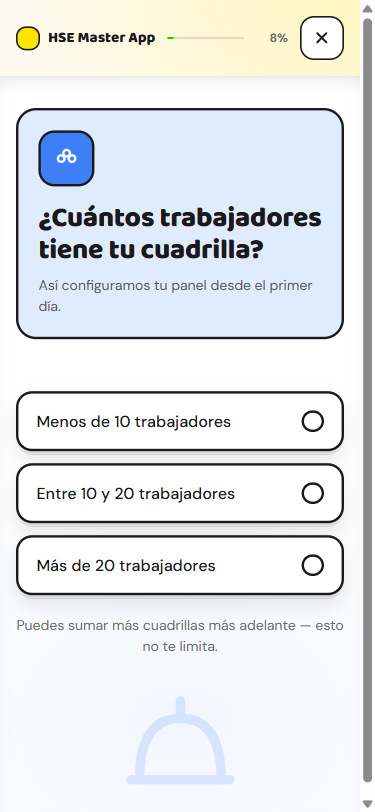
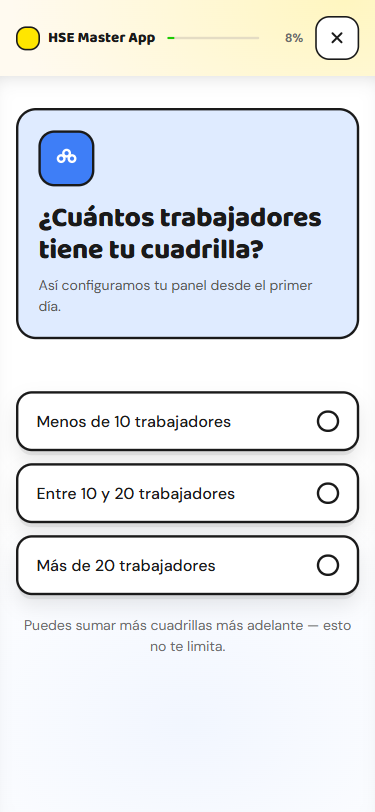
Sesion 4: corrige los defectos de la ronda 13 en onboarding
Se quita la marca de agua decorativa del paso 1 (quedaba cortada por
el borde del viewport y era inconsistente con los pasos 2/4) en vez
de seguir ajustando su tamano tras 3 rondas de ida y vuelta. Cada
respuesta se guarda en sessionStorage apenas se elige, no solo al
llegar al loading, para que un refresh o el boton atras nativo no
pierda las respuestas. El icono del reconocimiento cambia segun el
reto elegido (casco/QR/signo de pregunta), igual que ya cambia el
texto. El grupo de chips se bloquea con pointer-events:none por
320ms tras elegir uno, para evitar una transicion doble por doble
tap. El aria-label del logo cambia a "Salir del recorrido" fuera del
paso 1, para coincidir con lo que realmente hace.

diff --git a/onboarding.html b/onboarding.html
@@ -84,9 +84,6 @@
 
   .onb-chips { margin-top: 28px; display: flex; flex-direction: column; gap: 12px; }
   .onb-nota-cuadrilla { margin-top: 20px; font-size: 14px; color: var(--ink-2); text-align: center; }
-  .onb-marca-agua { display: block; margin: 20px auto 0; width: 140px; height: 140px; color: var(--azul);
-                     opacity: 0.16; }
-  .onb-marca-agua svg { width: 100%; height: 100%; }
   .onb-chip {
     width: 100%; min-height: 60px; border-radius: 16px; border: 3px solid var(--ink); background: var(--surface);
     display: flex; align-items: center; justify-content: space-between; gap: 12px; padding: 14px 18px;
@@ -229,7 +226,6 @@
       </button>
     </div>
     <p class="onb-nota-cuadrilla">Puedes sumar más cuadrillas más adelante — esto no te limita.</p>
-    <span class="onb-marca-agua" aria-hidden="true"><svg viewBox="0 0 24 24" fill="none" stroke="currentColor" stroke-width="1.6" stroke-linecap="round" stroke-linejoin="round"><path d="M3.5 17.5h17"/><path d="M5 17.5Q5 7 12 7Q19 7 19 17.5"/><path d="M12 7V4"/></svg></span>
   </section>
 
   <!-- PASO 2 -->
@@ -337,6 +333,9 @@
   const pctEl = document.getElementById('onbPct');
   const atrasBtn = document.getElementById('onbAtras');
   const sinMovimiento = window.matchMedia('(prefers-reduced-motion: reduce)').matches;
+  function guardarProgreso() {
+    try { sessionStorage.setItem('hseOnboarding', JSON.stringify(respuestas)); } catch {}
+  }
 
   const progressBar = document.querySelector('.onb-progress');
   const srPaso = document.getElementById('onbSrPaso');
@@ -351,6 +350,7 @@
   }
   function actualizarHeader(paso) {
     document.getElementById('onbHeaderMedio').classList.toggle('oculto', paso === 5);
+    document.getElementById('onbLogo').setAttribute('aria-label', paso > 1 ? 'Salir del recorrido de bienvenida' : 'Ir al inicio');
   }
 
   let transicionando = false;
@@ -423,6 +423,9 @@
         siguiente.focus();
       });
       chip.addEventListener('click', () => {
+        if (grupo.style.pointerEvents === 'none') return;
+        grupo.style.pointerEvents = 'none';
+        setTimeout(() => { grupo.style.pointerEvents = ''; }, 320);
         chipsDelGrupo.forEach((c) => { c.classList.remove('seleccionado'); c.setAttribute('aria-checked', 'false'); c.setAttribute('tabindex', '-1'); });
         chip.classList.add('seleccionado');
         chip.setAttribute('aria-checked', 'true');
@@ -436,6 +439,7 @@
           respuestas.retoTexto = null;
           respuestas.retoLabel = chip.querySelector('span').textContent;
         }
+        guardarProgreso();
 
         setTimeout(() => {
           if (nombre === 'cuadrilla') irAPaso(2, 'adelante');
@@ -469,38 +473,49 @@
     respuestas.reto = 'otra';
     respuestas.retoTexto = texto;
     respuestas.retoLabel = respuestas.retoTexto;
+    guardarProgreso();
     irAPaso(3, 'adelante');
   });
 
   // Reconocimiento dinámico según el reto elegido
+  const ICONO_CASCO = '<path d="M3.5 17.5h17"/><path d="M5 17.5Q5 7 12 7Q19 7 19 17.5"/><path d="M12 7V4"/>';
+  const ICONO_QR = '<rect x="3" y="3" width="7" height="7" rx="1"/><rect x="14" y="3" width="7" height="7" rx="1"/><rect x="3" y="14" width="7" height="7" rx="1"/><path d="M14 14h3v3h-3zM19 14v3M14 19h3M17 17h4v4h-4z"/>';
+  const ICONO_PREGUNTA = '<circle cx="12" cy="12" r="10"/><path d="M9.5 9a2.5 2.5 0 0 1 5 0c0 1.5-2.5 2-2.5 3.5"/><path d="M12 17h.01"/>';
   const RECONOCIMIENTOS = {
     firman: {
       titulo: 'No es que no les importe',
-      cuerpo: 'Una firma en papel nunca prueba que entendieron — el <b>Pase de los 3 Minutos</b> reemplaza la firma por una prueba real, todos los días.'
+      cuerpo: 'Una firma en papel nunca prueba que entendieron — el <b>Pase de los 3 Minutos</b> reemplaza la firma por una prueba real, todos los días.',
+      icono: ICONO_CASCO
     },
     certificados: {
       titulo: 'No es tu equipo el que falla',
-      cuerpo: 'Cientos de carpetas de papel no fueron hechas para escalar. El Pase convierte cada certificación en un <b>código QR</b> que se verifica en segundos.'
+      cuerpo: 'Cientos de carpetas de papel no fueron hechas para escalar. El Pase convierte cada certificación en un <b>código QR</b> que se verifica en segundos.',
+      icono: ICONO_QR
     },
     'no-se-quien': {
       titulo: 'Un examen no distingue entender de adivinar',
-      cuerpo: 'El Pase mide si tu gente retuvo la regla de verdad, con retos de 3 minutos que <b>no se pueden adivinar</b>.'
+      cuerpo: 'El Pase mide si tu gente retuvo la regla de verdad, con retos de 3 minutos que <b>no se pueden adivinar</b>.',
+      icono: ICONO_PREGUNTA
     },
     auditoria: {
       titulo: 'Juntar papeles no debería tomarte días',
-      cuerpo: 'Con el Pase, cada trabajador trae su <b>código QR</b> listo — tu evidencia vive en el sistema, no en una carpeta.'
+      cuerpo: 'Con el Pase, cada trabajador trae su <b>código QR</b> listo — tu evidencia vive en el sistema, no en una carpeta.',
+      icono: ICONO_QR
     }
   };
   function prepararReconocimiento() {
     const titulo = document.getElementById('onbRecoTitulo');
     const cuerpo = document.getElementById('onbRecoCuerpo');
+    const iconoSvg = document.querySelector('.onb-reco .ic svg');
     if (respuestas.reto === 'otra' && respuestas.retoTexto) {
       titulo.textContent = 'Gracias por contarnos';
       cuerpo.innerHTML = `Anotamos tu reto: "${respuestas.retoTexto}". El <b>Pase de los 3 Minutos</b> está pensado para convertir la seguridad en un hábito diario, no en papeleo.`;
+      iconoSvg.innerHTML = ICONO_CASCO;
     } else {
       const r = RECONOCIMIENTOS[respuestas.reto] || RECONOCIMIENTOS.firman;
       titulo.textContent = r.titulo;
       cuerpo.innerHTML = r.cuerpo;
+      iconoSvg.innerHTML = r.icono;
     }
   }
   document.getElementById('onbRecoContinuar').addEventListener('click', () => irAPaso(4, 'adelante'));
@@ -527,7 +542,7 @@
 
   // Loading: anillo + líneas con pausas (labor illusion)
   function iniciarCarga() {
-    try { sessionStorage.setItem('hseOnboarding', JSON.stringify(respuestas)); } catch {}
+    guardarProgreso();
     const lineas = document.getElementById('onbLineas').querySelectorAll('.onb-linea');
     const textos = {
       1: `Analizando el tamaño de tu cuadrilla: ${respuestas.cuadrilla || '—'}`,

diff --git a/ESTADO.md b/ESTADO.md
@@ -1,7 +1,7 @@
 # ESTADO — HSE Master App
 Última actualización: 2026-10-17 | Sesión actual: 4
 
-⏸ CHECKPOINT — Sesión 4 (onboarding, paywall), ronda 13 de paywall YA ENTREGADA y YA CORREGIDA; onboarding ronda 13 sigue en segundo plano. Paywall ronda 13: usabilidad 30/40, craft 14/20, copy 19/20 (PASA 3 rondas seguidas). Fixes: el CTA verde ganó un halo/sombra con tinte del mismo verde para separarse del fondo blanco (el revisor midió ~2.17:1 contra el relleno, aunque el borde de 3px ya daba el contraste real del límite del botón); se envolvió el handler del CTA en try/catch con un mensaje visible (`#pwError`) por si algo falla al continuar, en vez de un fallo silencioso; "el Pase" se aclara entre paréntesis ("el reto diario de 3 minutos") en su primera mención en esta pantalla, para quien aterriza directo aquí sin pasar por onboarding; el precio de cada plan baja de 22 a 19px para no competir en peso visual con el titular; las 2 etiquetas tipo "eyebrow" (planes/días) se unifican al mismo gris, antes una era azul sin razón visible. Próximo paso: cuando llegue el veredicto de onboarding ronda 13, corregirlo, commitear y relanzar la ronda 14.
+⏸ CHECKPOINT — Sesión 4 (onboarding, paywall), ronda 13 de ambas YA ENTREGADA y YA CORREGIDA (sin relanzar ronda 14 todavía). Paywall ronda 13: usabilidad 30/40, craft 14/20, copy 19/20 (PASA 3 rondas seguidas) — fixes: halo/sombra con tinte verde en el CTA; handler del CTA envuelto en try/catch con mensaje visible (`#pwError`) si algo falla; "el Pase" se aclara entre paréntesis en su primera mención; precio de cada plan baja de 22 a 19px; las 2 etiquetas "eyebrow" se unifican al mismo gris. Onboarding ronda 13: usabilidad 30/40, craft 16/20 (sostiene el umbral 2 rondas seguidas). Fixes de onboarding: se QUITÓ la marca de agua del paso 1 (en vez de agrandarla de nuevo) — quedaba cortada por el borde del viewport a 375×812 y era inconsistente con los pasos 2/4, que nunca la tuvieron; se prefiere aceptar el espacio residual como estado estable en vez de seguir oscilando entre "muy chica/invisible" y "muy grande/cortada" rondas seguidas; cada respuesta se guarda en sessionStorage apenas se elige (antes solo se guardaba al llegar al loading) — un refresh o el botón atrás nativo del navegador ya no pierde las respuestas; el ícono del reconocimiento ahora cambia según el reto elegido (casco/QR/signo de pregunta), igual que ya cambia el texto; se bloquea el grupo de chips con `pointer-events:none` por 320ms tras elegir uno, para que un segundo tap no agende una transición doble; el aria-label del logo cambia a "Salir del recorrido de bienvenida" cuando ya no está en el paso 1 (coincide con lo que realmente hace: confirma salida, no va al inicio).
 veredicto:landing — 24 rondas de revisión independiente corregidas con mejora real y medible (usabilidad 27→30, craft 12-14 oscilando). Sigue NO LISTA. Las correcciones restantes que el revisor pide (bajar de 4 a 2 acentos de color en toda la pantalla, variar el gesto de botón, rotar el amarillo más allá de lo que preserva "gold") chocan con decisiones ya aprobadas por el usuario (FICHA-ARTE.md, cosa juzgada) — documentadas abajo como razonadas, no pendientes sueltas. El único camino para subir más el puntaje de craft/identidad es que el USUARIO decida si quiere tocar esas decisiones aprobadas, no que el agente seguro siga iterando solo. defecto "cero estados de error en el funnel" sigue DELIBERADAMENTE sin resolver: no hay backend/checkout real todavía (Sesión 6, cualquier error sería fabricado). El footer legal ya NO dice "(pendiente)" con jerga interna (corregido en ronda 19 → "(próximamente)", lenguaje de cliente) pero las 3 páginas legales siguen sin redactarse de verdad — eso se resuelve en la sesión aparte de este sistema (47-LEGAL-FISCAL-Y-PRIVACIDAD.md). La promesa de "reembolso de 7 días" se QUITÓ de la landing (ronda 23) hasta que exista FICHA-MERCADO.md con el plazo real verificado contra Hotmart — ninguno bloquea esta pantalla puntual.
 
 ## Qué es esta app (3 líneas máximo)
@@ -104,7 +104,8 @@ Plataforma móvil B2B de microaprendizaje gamificado (estilo Duolingo) para capa
   4. [Carrusel] El recálculo de flechas/puntos en cada evento de scroll no usa `requestAnimationFrame` — podría sentirse tosco en celulares de gama media bajo prueba real (nunca verificado en un dispositivo físico, solo en navegador de escritorio emulando 375px).
   5. [Método] El screenshot de evidencia es de página completa muy reescalada (360×8711) y no permite verificar encaje óptico fino — si se retoma el pulido, conviene agregar recortes a resolución nativa de las secciones clave.
   Las demás tensiones de fondo (paleta multicolor, gesto de botón, falta de testimonios, mailto sin backend, footer legal) siguen siendo decisiones razonadas y documentadas por separado abajo, no parte de esta lista.
-- veredicto:onboarding — 12 rondas de revisión independiente (30→31→32→28→28→33→29→31→28→31→37→32/40 usabilidad; craft 10→12→12→10→13→14→16→15→14→14→13→16/20). Ambos ejes cruzaron el umbral al menos una vez (usabilidad en la 11, craft en la 12) pero nunca juntos en la misma ronda todavía — se necesita una ronda donde ambos pasen a la vez para declarar lista. docs/revisiones/onboarding-veredicto.md en disco es el de la ronda 12. No se declara lista hasta leer el veredicto de la ronda 13.
+- veredicto:onboarding — 13 rondas de revisión independiente (30→31→32→28→28→33→29→31→28→31→37→32→30/40 usabilidad; craft 10→12→12→10→13→14→16→15→14→14→13→16→16/20). Craft sostiene el umbral 2 rondas; usabilidad sigue siendo el eje que falta, nunca coincidió con craft en la misma ronda todavía. docs/revisiones/onboarding-veredicto.md en disco es el de la ronda 13. No se declara lista hasta leer el veredicto de la ronda 14.
+- marca-agua-onboarding-removida — tras 3 rondas oscilando (8%→16%→cortada/inconsistente), se decidió QUITAR la marca de agua decorativa del paso 1 en vez de seguir ajustando su tamaño/opacidad. Decisión razonada: es un elemento puramente decorativo (no aporta información), y 3 rondas de ida y vuelta sobre su tamaño exacto es la señal de que no vale la pena seguir iterando ese detalle — el espacio residual bajo los 3 chips queda como un costo aceptado del layout de pregunta corta, no como un defecto a perseguir más.
 - veredicto:paywall — 13 rondas de revisión independiente (31→35→35→32→31→31→29→34→30→33→32→32→30/40 usabilidad; craft 14→12→15→14→13→14→15→18→14→14→15→17→14/20; copy 17→16→17→16→17→17→16→18→17→18→18→19→19/20). Copy sostiene el umbral 3 rondas seguidas; craft osciló debajo otra vez; usabilidad sigue siendo el eje que nunca cruzó el umbral en esta pantalla. docs/revisiones/paywall-veredicto.md en disco es el de la ronda 13. No se declara lista hasta leer el veredicto de la ronda 14.
 - agente-crasheo-pero-escribio-veredicto — la ronda 11 de onboarding reportó "failed" por límite de uso de la cuenta, pero el archivo de veredicto en disco está completo y bien formado (no cortado a mitad). Antes de asumir que hay que retomar un agente con SendMessage, conviene leer el archivo de veredicto: si ya quedó completo, ese es el resultado válido de la ronda y no hace falta relanzar ni retomar nada.
 - metodologia-sessionStorage-entre-pantallas — la ronda 10 de onboarding detectó que una captura "oficial" de evidencia (paso 1) en realidad mostraba el paso 4, porque sessionStorage con respuestas de una prueba anterior (usada para ver el total de la cuadrilla en paywall) hacía que el auto-resume de onboarding.html saltara de más al recargar la página para el screenshot. Desde ahora: SIEMPRE `sessionStorage.clear()` antes de navegar a onboarding.html para capturar su paso 1, ya que esta app (a diferencia de landing/paywall) cambia de pantalla según lo que haya guardado.

diff --git a/docs/revisiones/onboarding-veredicto.md b/docs/revisiones/onboarding-veredicto.md
@@ -1,14 +1,15 @@
 # VEREDICTO revisor-visual — onboarding
 Fecha: 2026-10-17 00:00
 Screenshot: docs/revisiones/onboarding-375.png
-Usabilidad: 32/40
+Usabilidad: 30/40
 Craft: 16/20
 Copy (si vende): N-A
 Fidelidad (si hubo referencia): N-A
 Veredicto: NO LISTA
+
 Top defectos:
-1. [Paso 1 y Paso 4, tercio inferior de la pantalla] Debajo de la nota "Puedes sumar más cuadrillas..." queda un bloque de fondo vacío con solo el hardhat al 8% de opacidad (onboarding.html líneas 60-64 `.onb-paso{justify-content:flex-start}` + 86-88 `.onb-marca-agua{opacity:.08}` + marcado en línea 230) — se percibe como espacio muerto, no como aire intencional, porque la marca de agua es casi invisible y no hay ningún otro elemento que lo ancle. Fix: subir la opacidad del hardhat a ~0.12-0.15 o agregar un segundo elemento decorativo (línea/chip contextual) que ocupe ese tercio, o reducir el padding-bottom del `.onb-paso` para que el bloque de opciones quede más cerca del borde inferior.
-2. [Paso 1/2/4, microcopy gris dentro del encabezado de color] El texto `.onb-micro` (línea 82, `color: var(--ink-2)` = #6b6b6b, línea 18) sobre los fondos `.onb-encabezado.azul`/`.rojo` (líneas 72-73, color-mix 16%) mide ~4.37-4.44:1 de contraste — por debajo del mínimo AA 4.5:1 para texto normal de 14px. Fix: oscurecer a ~#565656 o crear un token `--ink-2-on-tint` solo para este microcopy sobre fondos de color.
-3. [Header, barra de progreso — verificado en código, no visible en captura] `.onb-progress`/`.onb-progress-fill`/`.onb-pct` (líneas 52-54) son `div` planos sin `role="progressbar"` ni `aria-valuenow/min/max`, y `irAPaso()` (líneas 351-380) nunca mueve el foco ni anuncia el cambio de paso a un lector de pantalla — el único feedback de "vas en el paso X de 5" es visual. Fix: agregar `role="progressbar" aria-valuenow aria-valuemin="0" aria-valuemax="100"` a `.onb-progress` y un `aria-live="polite"` oculto que anuncie "Paso X de 5" al llamar `irAPaso`.
-4. [Paso 1, jerarquía tipográfica] En una sola pantalla conviven 4 tamaños de fuente distintos: 28/30px (línea 80-81, pregunta), 16px (línea 92, texto de los chips), 14px (línea 82, microcopy) y 13px (línea 85, nota) — por encima del máximo de 3 tamaños por pantalla que exige una jerarquía nítida. Fix: unificar microcopy y nota en el mismo tamaño (13px o 14px, uno solo) para dejar exactamente 3 niveles.
-5. [Chips de selección, círculo de check sin seleccionar] `.onb-chip .check` (línea 100) usa `border: 2px solid var(--ink)`, mientras que FICHA-ARTE.md línea 30 fija "2.5-3px sólido... en TODOS los bloques y botones" como la firma del estilo "comic/juego de mesa" — el círculo de radio queda con un trazo visiblemente más fino que el resto del kit (tarjetas, botones, íconos, todos en 3px). Fix: subir el borde del `.check` a 3px para igualar la firma visual.
+1. [Paso 1, debajo de "Puedes sumar más cuadrillas..."] El ícono decorativo (`.onb-marca-agua`, onboarding.html líneas 87-89 y 232) queda cortado por el borde inferior del viewport a 375x812 (visible en onboarding-375.png) y obliga a hacer scroll para ver un elemento puramente decorativo sin ninguna función; además solo existe en el paso 1 y no en los pasos 2/4, que comparten la misma estructura (encabezado + chips) → rompe el ritmo visual entre las 3 preguntas. Fix: quitar el elemento o reducir su tamaño/margen para que quepa completo sobre el pliegue, y aplicarlo (o no aplicarlo) de forma consistente en los 3 pasos de pregunta.
+2. [Control y libertad — código, sin captura posible] `onboarding.html` no registra ningún handler de `beforeunload` ni `popstate` (búsqueda en todo el `<script>`, líneas 331-598). El botón "X" y el logo sí piden confirmación antes de salir (líneas 513-526), pero el gesto nativo de "atrás" del navegador/celular o un refresh de página saltan esa confirmación y pierden las respuestas sin aviso. Fix: agregar un `beforeunload` que avise si hay respuestas sin guardar, o persistir en `sessionStorage` en cada selección (ya existe el mecanismo de restauración, falta guardarlo paso a paso, no solo al llegar al loading en la línea 530).
+3. [Paso 3, ícono del reconocimiento] El ícono (onboarding.html línea 267) es siempre el mismo SVG (casco/campana) sin importar cuál reto se eligió, mientras que el texto sí se personaliza por reto (`RECONOCIMIENTOS`, líneas 476-493: certificados habla de QR, "no-se-quien" habla de examen/retos, auditoría habla de papeles). El ícono pierde la oportunidad de reforzar visualmente el mensaje ya personalizado. Fix: mapear un ícono distinto por clave de `RECONOCIMIENTOS` (ej. QR para certificados/auditoría, check/quiz para "no-se-quien").
+4. [Chips de selección — código] En el listener de clic (líneas 425-446) un segundo tap sobre otro chip del mismo grupo dentro de la ventana de 300ms antes del auto-avance puede programar dos llamadas a `irAPaso` casi seguidas; la bandera `transicionando` (línea 356) mitiga el choque pero no evita el doble `setTimeout` agendado. Fix: deshabilitar `pointer-events` en el grupo de chips (`grupo.style.pointerEvents='none'`) apenas se registra la primera selección, hasta completar la transición.
+5. [Header, logo — accesibilidad] El logo tiene `aria-label="Ir al inicio"` (línea 197) pero su función real es disparar el mismo flujo de confirmación de salida que el botón "X" (`pedirSalir`, líneas 513-524), nunca navega directo si `pasoActual>1`. Para un lector de pantalla el rótulo promete una navegación simple y en realidad abre un diálogo de "perderás tus respuestas". Fix: usar el mismo aria-label que el botón "X" ("Salir del recorrido de bienvenida") para que la acción anunciada coincida con la real.
